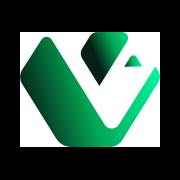
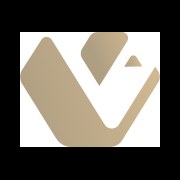
feat(theme): accent ouro escuro #af9f82 e claro #d1b993
- html.dark / :root: --bv-accent #af9f82; html.light: #d1b993; --accent-rgb e trilho calc por tema\n- Tailwind bv-green/primary via var(--bv-accent); botões e inputs usam accent\n- PDF, Insights, Finance, Dashboard, manifest e meta theme-color alinhados\n- Logos SIMBOLO e LOGONAME: degradê #af9f82 → #d1b993; favicons regenerados

Made-with: Cursor

Changed region(s): [[0.1111, 0.1944, 0.8889, 0.8333], [0.4444, 0.1667, 0.7222, 0.4722], [0.6944, 0.3056, 0.8056, 0.3889]]

diff --git a/frontend/src/index.css b/frontend/src/index.css
@@ -2,13 +2,14 @@
 @import "tailwindcss";
 
 /*
- * Tokens BrokerVision — `brokervision-brand-context.json` (color_system, card_system, liquid glass scope).
- * Accent: #00F5A0. Liquid glass: backdrop-filter + fill 6% (brokervision-brand-context.json).
- * Dashboard: `background_effects.dashboard_special` — glassmorphism + blur 60% → 60px; fill accent 6% (`color_system.card_fill`).
+ * Tokens BrokerVision — accent: tema escuro #af9f82, tema claro #d1b993.
+ * Liquid glass: backdrop-filter + fill 6%.
  */
 
 :root {
-  --accent-rgb: 0, 245, 160;
+  --accent-rgb: 175, 159, 130;
+  --bv-accent: #af9f82;
+  --bv-accent-deep: #8a7a62;
   /**
    * Fallback antes de html.dark / html.light (evita background inválido no 1º paint).
    * Alinhado a color_system.card_fill (accent 6%).
@@ -39,20 +40,25 @@
    * Calculadora de fluxo — trilho do range: âncoras em :root (WebKit resolve bem no pseudo).
    * Degradê: interpolação em OKLCH (perceptualmente uniforme, sem “cortes” entre stops em sRGB).
    */
-  --bv-flow-track-edge: #062016;
-  --bv-flow-track-mint: #00f5a0;
+  --bv-flow-track-edge: #4a4034;
+  --bv-flow-track-mint: #d1b993;
 }
 
 /* —— escuro (primário) —— */
 html.dark {
   color-scheme: dark;
+  --accent-rgb: 175, 159, 130;
+  --bv-accent: #af9f82;
+  --bv-accent-deep: #8a7a62;
+  --bv-flow-track-edge: #4a4034;
+  --bv-flow-track-mint: #d1b993;
   --text-primary: #ffffff;
   --text-soft: #e8e8e8;
   --text-muted: #9a9a9a;
   --text-secondary: rgba(255, 255, 255, 0.6);
   --bg-page: #000000;
-  --bg-radial-a: rgba(0, 245, 160, 0.06);
-  --bg-radial-b: rgba(0, 245, 160, 0.04);
+  --bg-radial-a: rgba(var(--accent-rgb), 0.06);
+  --bg-radial-b: rgba(var(--accent-rgb), 0.04);
   --card-bg: rgba(var(--accent-rgb), 0.06);
   --card-fill-solid: color-mix(in srgb, rgb(var(--accent-rgb)) 6%, #000000 94%);
   --card-border: rgba(var(--accent-rgb), 0.1);
@@ -73,7 +79,7 @@ html.dark {
   --line-subtle: rgba(255, 255, 255, 0.06);
   --input-bg: rgba(255, 255, 255, 0.03);
   --input-border: rgba(255, 255, 255, 0.06);
-  --selection: rgba(0, 245, 160, 0.3);
+  --selection: rgba(var(--accent-rgb), 0.3);
   /**
    * Molde de cartão (módulos fora do Dashboard): verde floresta quase preto + borda + blur leve.
    * Desfouque 5% → `blur(5px)` sobre o fundo (backdrop).
@@ -91,13 +97,18 @@ html.dark {
 /* —— claro (secundário) —— */
 html.light {
   color-scheme: light;
+  --accent-rgb: 209, 185, 147;
+  --bv-accent: #d1b993;
+  --bv-accent-deep: #b5a485;
+  --bv-flow-track-edge: #7d6d57;
+  --bv-flow-track-mint: #efe6dc;
   --text-primary: #1e1e1e;
   --text-soft: #0a0a0a;
   --text-muted: #9a9a9a;
   --text-secondary: rgba(30, 30, 30, 0.6);
   --bg-page: #ffffff;
-  --bg-radial-a: rgba(0, 245, 160, 0.06);
-  --bg-radial-b: rgba(0, 200, 120, 0.04);
+  --bg-radial-a: rgba(var(--accent-rgb), 0.06);
+  --bg-radial-b: rgba(var(--accent-rgb), 0.04);
   --card-bg: rgba(var(--accent-rgb), 0.06);
   --card-fill-solid: color-mix(in srgb, rgb(var(--accent-rgb)) 6%, #ffffff 94%);
   --card-border: rgba(var(--accent-rgb), 0.1);
@@ -117,7 +128,7 @@ html.light {
   --line-subtle: rgba(0, 0, 0, 0.08);
   --input-bg: rgba(0, 0, 0, 0.03);
   --input-border: rgba(0, 0, 0, 0.12);
-  --selection: rgba(0, 245, 160, 0.25);
+  --selection: rgba(var(--accent-rgb), 0.25);
   --bv-card-mold-bg: color-mix(in srgb, #ffffff 94%, rgb(8, 45, 32) 6%);
   --bv-card-mold-border: rgba(10, 32, 21, 0.28);
   --bv-card-mold-blur: 5px;
@@ -128,8 +139,8 @@ html.light {
 }
 
 @theme {
-  --color-bv-green: #00f5a0;
-  --color-bv-green-deep: #00a854;
+  --color-bv-green: var(--bv-accent);
+  --color-bv-green-deep: var(--bv-accent-deep);
   --color-bv-black: #000000;
   --color-bv-black-soft: #0a0a0a;
   --color-bv-card: #111111;
@@ -141,7 +152,7 @@ html.light {
   --color-bv-text-soft: var(--text-soft);
   --color-bv-muted: var(--text-muted);
 
-  --color-primary: #00f5a0;
+  --color-primary: var(--bv-accent);
   --color-primary-foreground: #000000;
 
   --font-sans: "Nunito", "Inter", ui-sans-serif, system-ui;
@@ -447,8 +458,8 @@ html.light {
   .glass-card.glass-green {
     box-shadow:
       var(--glass-inset-highlight),
-      0 0 24px rgba(0, 245, 160, 0.08),
-      inset 0 1px 0 rgba(0, 245, 160, 0.12),
+      0 0 24px rgba(var(--accent-rgb), 0.08),
+      inset 0 1px 0 rgba(var(--accent-rgb), 0.12),
       var(--glass-shadow);
   }
 
@@ -473,7 +484,7 @@ html.light {
   }
 
   .btn-primary {
-    @apply bg-gradient-to-br from-[#00F5A0] to-[#00A854] text-black shadow-lg shadow-bv-green/20 hover:shadow-bv-green/30 hover:brightness-110;
+    @apply bg-gradient-to-br from-[var(--bv-accent)] to-[var(--bv-accent-deep)] text-black shadow-lg shadow-bv-green/20 hover:shadow-bv-green/30 hover:brightness-110;
   }
 
   .btn-outline {
@@ -498,8 +509,8 @@ html.light {
   }
 
   .input-field:focus {
-    border-color: rgba(0, 245, 160, 0.45);
-    box-shadow: 0 0 0 4px rgba(0, 245, 160, 0.12);
+    border-color: rgba(var(--accent-rgb), 0.45);
+    box-shadow: 0 0 0 4px rgba(var(--accent-rgb), 0.12);
   }
 
   /**
@@ -519,7 +530,7 @@ html.light {
   }
 
   .bv-flow-slider:focus-visible {
-    outline: 2px solid rgba(0, 245, 160, 0.45);
+    outline: 2px solid rgba(var(--accent-rgb), 0.45);
     outline-offset: 4px;
     border-radius: 9999px;
   }
@@ -727,13 +738,13 @@ html.light {
     background:
       linear-gradient(
         180deg,
-        rgba(0, 245, 160, 0.065) 0%,
-        rgba(0, 245, 160, 0.018) 26%,
+        rgba(var(--accent-rgb), 0.065) 0%,
+        rgba(var(--accent-rgb), 0.018) 26%,
         transparent 52%
       ),
       linear-gradient(
         165deg,
-        rgba(0, 245, 160, 0.045) 0%,
+        rgba(var(--accent-rgb), 0.045) 0%,
         rgba(0, 0, 0, 0.055) 46%,
         rgba(0, 14, 10, 0.09) 100%
       ),
@@ -788,13 +799,13 @@ html.light {
     background:
       linear-gradient(
         180deg,
-        rgba(0, 245, 160, 0.065) 0%,
-        rgba(0, 245, 160, 0.018) 26%,
+        rgba(var(--accent-rgb), 0.065) 0%,
+        rgba(var(--accent-rgb), 0.018) 26%,
         transparent 52%
       ),
       linear-gradient(
         165deg,
-        rgba(0, 245, 160, 0.045) 0%,
+        rgba(var(--accent-rgb), 0.045) 0%,
         rgba(0, 0, 0, 0.055) 46%,
         rgba(0, 14, 10, 0.09) 100%
       ),
@@ -814,8 +825,8 @@ html.light {
     background:
       linear-gradient(
         180deg,
-        rgba(0, 245, 160, 0.055) 0%,
-        rgba(0, 245, 160, 0.012) 30%,
+        rgba(var(--accent-rgb), 0.055) 0%,
+        rgba(var(--accent-rgb), 0.012) 30%,
         transparent 52%
       ),
       linear-gradient(
@@ -849,8 +860,8 @@ html.light {
     background:
       linear-gradient(
         180deg,
-        rgba(0, 245, 160, 0.055) 0%,
-        rgba(0, 245, 160, 0.012) 30%,
+        rgba(var(--accent-rgb), 0.055) 0%,
+        rgba(var(--accent-rgb), 0.012) 30%,
         transparent 52%
       ),
       linear-gradient(

diff --git a/frontend/src/services/pdf.service.js b/frontend/src/services/pdf.service.js
@@ -15,7 +15,7 @@ export const generateLeadProposalPDF = async (leadData, simulationResults) => {
   doc.text('BROKERVISION', 15, 25);
   
   doc.setFontSize(10);
-  doc.setTextColor(0, 245, 160); // BV accent (#00F5A0)
+  doc.setTextColor(175, 159, 130); // BV accent (#af9f82)
   doc.setFont('helvetica', 'normal');
   doc.text('RELATÓRIO DE VIABILIDADE SOBERANA', 15, 32);
   
@@ -42,7 +42,7 @@ export const generateLeadProposalPDF = async (leadData, simulationResults) => {
   doc.text('VALOR DA PARCELA MENSAL', 20, 115);
   
   doc.setFontSize(24);
-  doc.setTextColor(0, 245, 160); // BV accent (#00F5A0)
+  doc.setTextColor(175, 159, 130); // BV accent (#af9f82)
   doc.text(formatCurrency(simulationResults.monthlyPayment), 20, 130);
   
   doc.setFontSize(10);
@@ -62,7 +62,7 @@ export const generateLeadProposalPDF = async (leadData, simulationResults) => {
   doc.text(`Total Geral Pago: ${formatCurrency(simulationResults.totalPaid)}`, 15, 192);
   
   // AI Insights
-  doc.setFillColor(240, 250, 245); // Very light Green
+  doc.setFillColor(245, 242, 236); // Fundo neutro quente (accent ouro)
   doc.rect(15, 210, pageWidth - 30, 40, 'F');
   
   doc.setTextColor(0, 168, 84); // BV Green (Darker)
@@ -100,7 +100,7 @@ export const generateFlowPaymentPDF = async (payload) => {
   doc.setTextColor(255, 255, 255);
   doc.text('BROKERVISION', 15, 18);
   doc.setFontSize(9);
-  doc.setTextColor(0, 245, 160);
+  doc.setTextColor(175, 159, 130);
   doc.setFont('helvetica', 'normal');
   doc.text('CALCULADORA DE FLUXO DE PAGAMENTO', 15, 28);
   y = 48;

diff --git a/frontend/src/pages/insights/Insights.jsx b/frontend/src/pages/insights/Insights.jsx
@@ -89,8 +89,8 @@ export default function Insights() {
               <AreaChart data={marketData}>
                 <defs>
                   <linearGradient id="colorPrice" x1="0" y1="0" x2="0" y2="1">
-                    <stop offset="5%" stopColor="#00F5A0" stopOpacity={0.2} />
-                    <stop offset="95%" stopColor="#00F5A0" stopOpacity={0} />
+                    <stop offset="5%" stopColor="#af9f82" stopOpacity={0.2} />
+                    <stop offset="95%" stopColor="#af9f82" stopOpacity={0} />
                   </linearGradient>
                 </defs>
                 <CartesianGrid strokeDasharray="3 3" vertical={false} stroke="#ffffff03" />
@@ -108,7 +108,7 @@ export default function Insights() {
                   isAnimationActive={false}
                   type="monotone"
                   dataKey="price"
-                  stroke="#00F5A0"
+                  stroke="#af9f82"
                   strokeWidth={3}
                   fillOpacity={1}
                   fill="url(#colorPrice)"

diff --git a/frontend/src/components/layout/ModuleFabButton.jsx b/frontend/src/components/layout/ModuleFabButton.jsx
@@ -9,7 +9,7 @@ export function ModuleFabButton({ children, 'aria-label': ariaLabel, title, onCl
       disabled={disabled}
       aria-label={ariaLabel}
       title={title ?? ariaLabel}
-      className="flex h-14 w-14 shrink-0 items-center justify-center rounded-full bg-gradient-to-br from-[#00F5A0] to-[#00A854] text-black shadow-lg shadow-bv-green/25 transition-[transform,filter] hover:brightness-110 active:scale-95 disabled:cursor-not-allowed disabled:opacity-45 disabled:active:scale-100 focus:outline-none focus-visible:ring-2 focus-visible:ring-bv-green/60"
+      className="flex h-14 w-14 shrink-0 items-center justify-center rounded-full bg-gradient-to-br from-[var(--bv-accent)] to-[var(--bv-accent-deep)] text-black shadow-lg shadow-bv-green/25 transition-[transform,filter] hover:brightness-110 active:scale-95 disabled:cursor-not-allowed disabled:opacity-45 disabled:active:scale-100 focus:outline-none focus-visible:ring-2 focus-visible:ring-bv-green/60"
     >
       {children}
     </button>

diff --git a/frontend/src/pages/finance/Finance.jsx b/frontend/src/pages/finance/Finance.jsx
@@ -28,7 +28,7 @@ import { ModuleFabButton } from '../../components/layout/ModuleFabButton';
 
 const finance = LEGACY_BV_MODULES.finance;
 
-const COLORS = ['#00F5A0', '#FFFFFF', '#9A9A9A', '#333333'];
+const COLORS = ['#af9f82', '#FFFFFF', '#9A9A9A', '#333333'];
 
 const data = [
   { name: 'Jan', comissao: 4000 },
@@ -140,7 +140,7 @@ export default function Finance() {
                 />
                 <Bar isAnimationActive={false} dataKey="comissao" radius={[6, 6, 0, 0]}>
                   {data.map((entry, index) => (
-                    <Cell key={`cell-${index}`} fill={index === 5 ? '#00F5A0' : 'rgba(255,255,255,0.1)'} />
+                    <Cell key={`cell-${index}`} fill={index === 5 ? '#af9f82' : 'rgba(255,255,255,0.1)'} />
                   ))}
                 </Bar>
               </BarChart>

diff --git a/frontend/tailwind.config.js b/frontend/tailwind.config.js
@@ -8,8 +8,8 @@ export default {
     extend: {
       colors: {
         bv: {
-          green: '#00F5A0',
-          'green-deep': '#00A854',
+          green: 'var(--bv-accent)',
+          'green-deep': 'var(--bv-accent-deep)',
           black: '#000000',
           'black-soft': '#0A0A0A',
           card: '#111111',
@@ -18,7 +18,7 @@ export default {
           'white-ghost': '#9A9A9A',
         },
         primary: {
-          DEFAULT: '#00F5A0',
+          DEFAULT: 'var(--bv-accent)',
           foreground: '#000000',
         },
       },

diff --git a/frontend/index.html b/frontend/index.html
@@ -21,7 +21,7 @@
     <link rel="icon" type="image/png" sizes="32x32" href="/icons/bv-symbol-green-32.png" />
     <link rel="apple-touch-icon" href="/apple-touch-icon.png" />
     <link rel="manifest" href="/site.webmanifest" />
-    <meta name="theme-color" content="#000000" />
+    <meta name="theme-color" content="#af9f82" />
     <meta name="viewport" content="width=device-width, initial-scale=1.0, viewport-fit=cover" />
     
     <title>BrokerVision | A visão que faltava.</title>

diff --git a/frontend/src/pages/dashboard/Dashboard.jsx b/frontend/src/pages/dashboard/Dashboard.jsx
@@ -36,7 +36,7 @@ const data = [
   { name: 'Jun', leads: 239, sales: 38 },
 ];
 
-const ACCENT = '#00F5A0';
+const ACCENT = '#af9f82';
 
 export default function Dashboard() {
   const [metrics, setMetrics] = useState({
